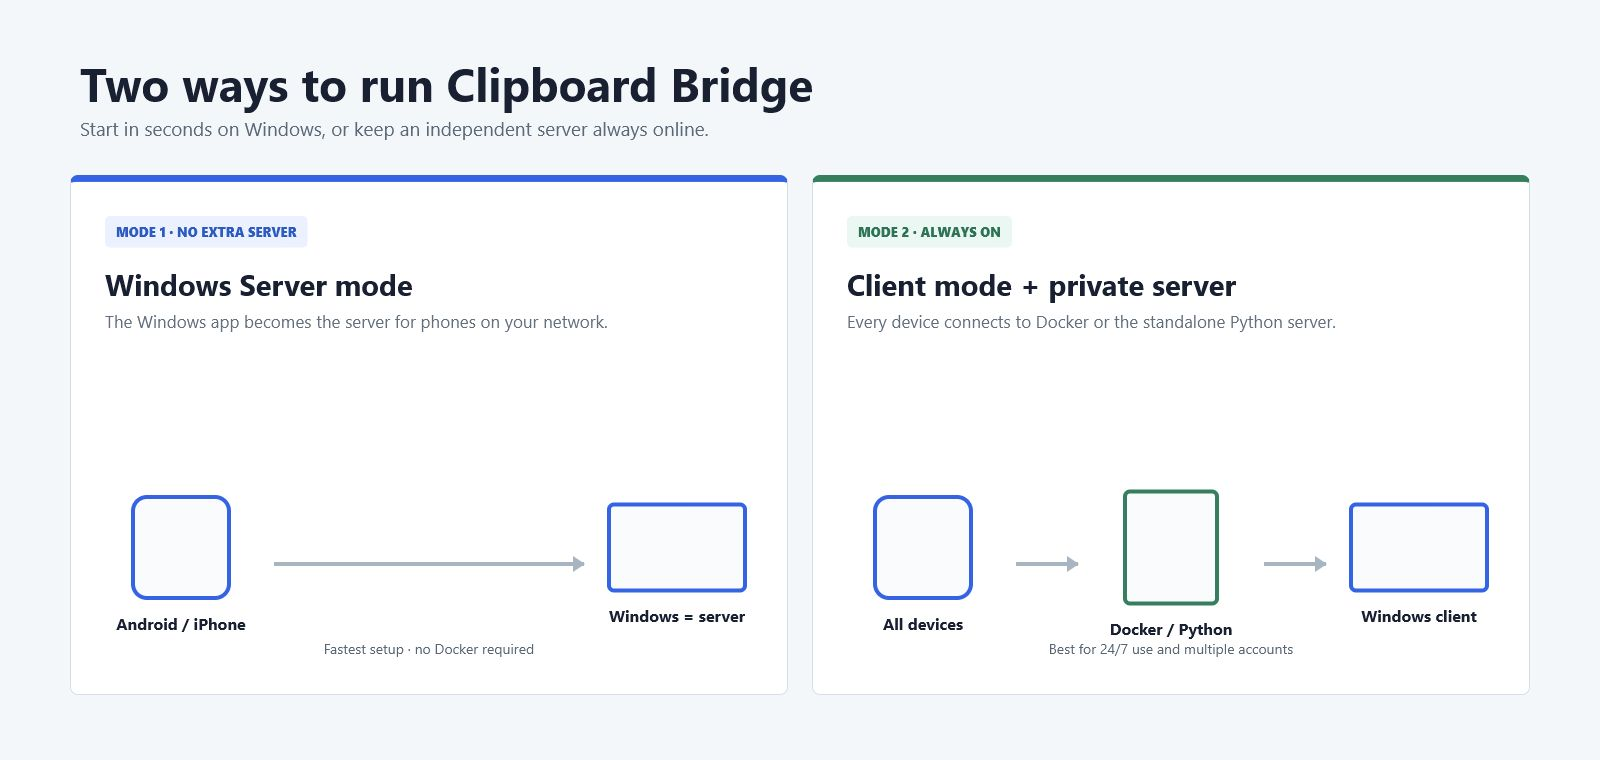
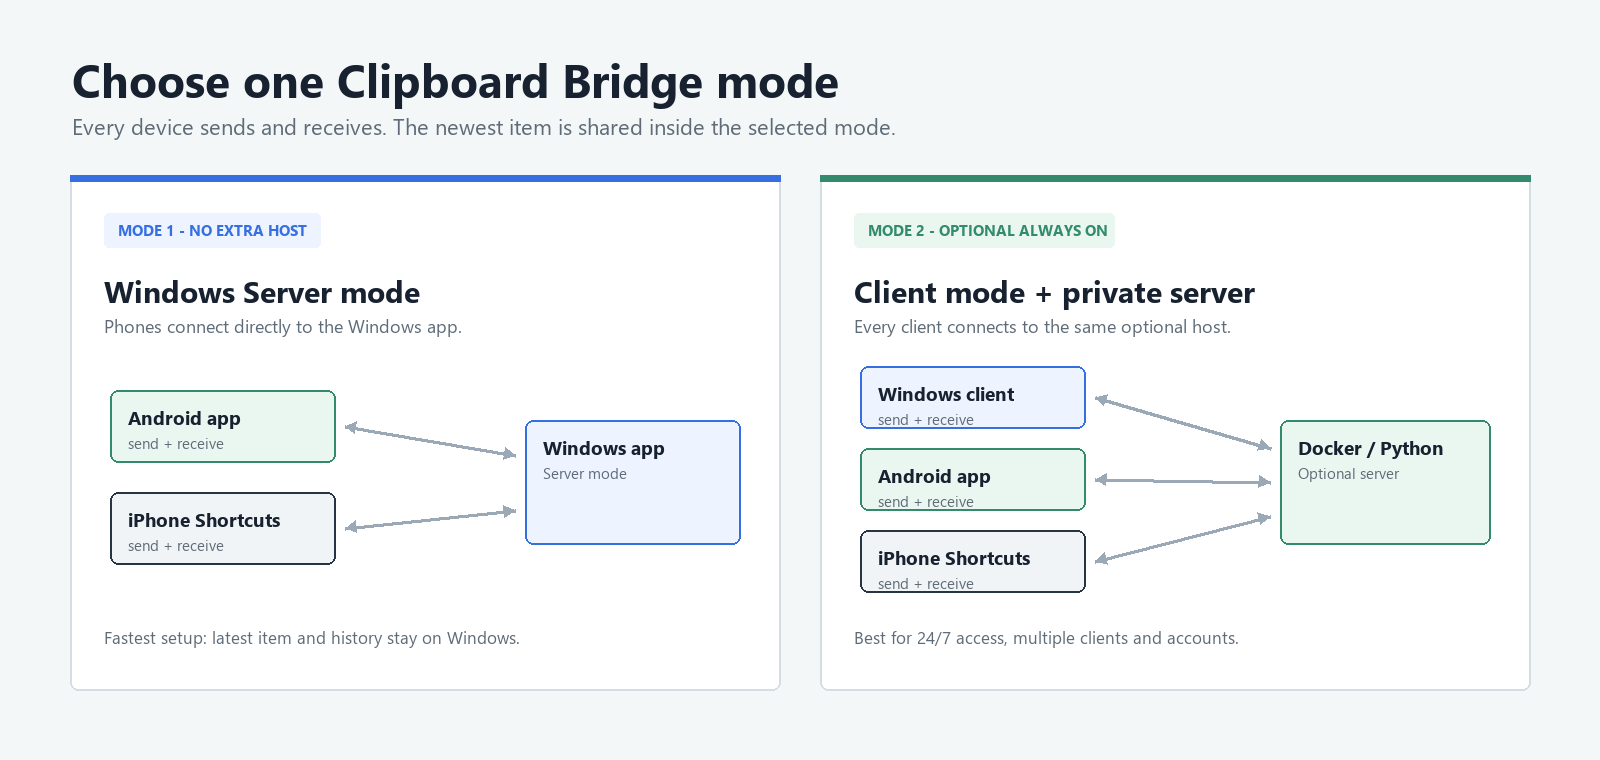
Correct the two-mode connection diagrams

diff --git a/README.it.md b/README.it.md
@@ -79,15 +79,20 @@ repository per documentazione, test, file Docker e sorgenti completi.
 ## Come funziona
 
 ```mermaid
-flowchart LR
-    W["App Windows"] <--> S["Server Clipboard Bridge"]
-    A["App Android"] <--> S
-    I["Comandi rapidi iPhone"] <--> S
-    S --> H["Ultimo elemento e cronologia ordinata"]
+flowchart TB
+    subgraph M1["Modalità 1 - nessun server separato"]
+        direction LR
+        P1["App Android + Comandi rapidi iPhone"] <--> W1["App Windows - modalità Server"]
+    end
+    subgraph M2["Modalità 2 - server sempre attivo opzionale"]
+        direction LR
+        P2["Client Windows + app Android + Comandi rapidi iPhone"] <--> S2["Server Docker o Python"]
+    end
 ```
 
-Il server mantiene una cronologia ordinata per ogni spazio clipboard. **Testo, immagini
-e file hanno la stessa priorità:** l'ultima richiesta ricevuta è sempre l'elemento più
+Scegli una modalità. In entrambi i casi ogni collegamento è bidirezionale e il server
+attivo mantiene una cronologia ordinata per ogni spazio clipboard. **Testo, immagini e
+file hanno la stessa priorità:** l'ultima richiesta ricevuta è sempre l'elemento più
 recente.
 
 Tutti i dispositivi devono usare gli stessi:

diff --git a/README.md b/README.md
@@ -79,15 +79,20 @@ documentation, tests, Docker files and complete source code.
 ## How it works
 
 ```mermaid
-flowchart LR
-    W["Windows app"] <--> S["Clipboard Bridge server"]
-    A["Android app"] <--> S
-    I["iPhone Shortcuts"] <--> S
-    S --> H["Latest item and ordered history"]
+flowchart TB
+    subgraph M1["Mode 1 - no separate server"]
+        direction LR
+        P1["Android app + iPhone Shortcuts"] <--> W1["Windows app - Server mode"]
+    end
+    subgraph M2["Mode 2 - optional always-on server"]
+        direction LR
+        P2["Windows client + Android app + iPhone Shortcuts"] <--> S2["Docker or Python server"]
+    end
 ```
 
-The server has one ordered history for each clipboard space. **Text, images and files
-have exactly the same priority:** the latest request is always the latest item.
+Choose one mode. In both cases every connection is bidirectional and the active server
+keeps one ordered history for each clipboard space. **Text, images and files have
+exactly the same priority:** the latest request is always the latest item.
 
 Every device must use the same:
 
